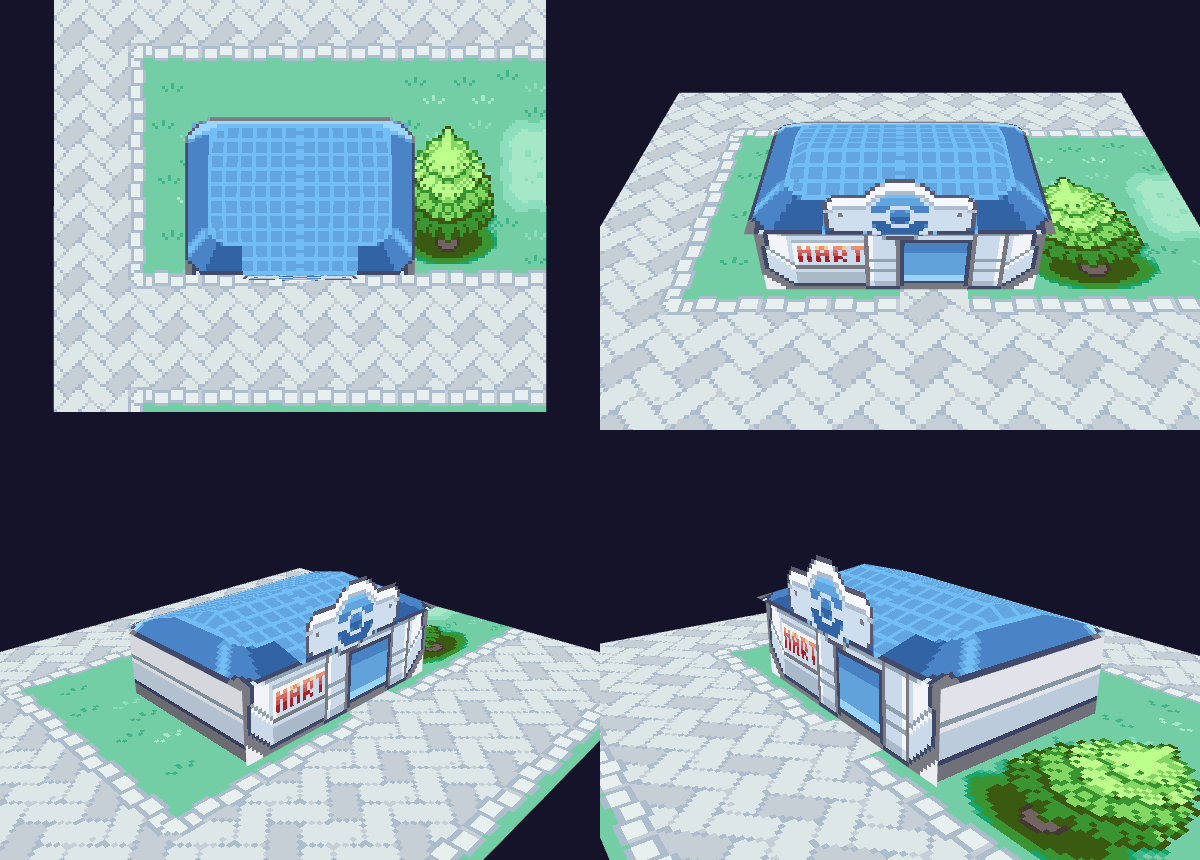
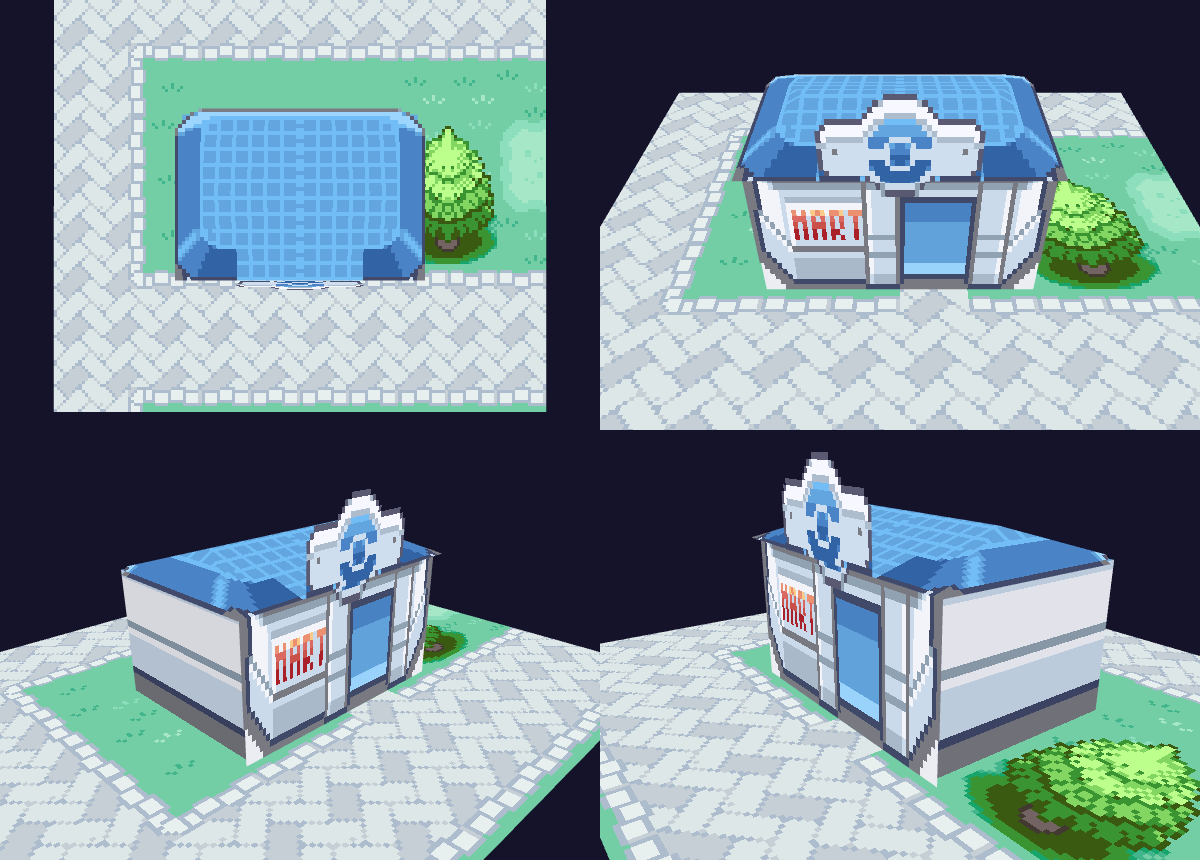
fix: Poke Mart mais alto que o jogador (fachada esticada 1.75x)
Regra: o jogador nunca pode ser muito maior que a porta nem parecer ter
75% do tamanho da construcao. Fachada e porta esticadas 1.75x (~1.85 de
parede) e placa 1.3x: menor que o Centro Pokemon, bem maior que o
jogador. Centro Pokemon inalterado.

Claude-Session: https://claude.ai/code/session_011SArCd6Gby5YnmMyJHVXV4

diff --git a/src/render/buildings/PokeMartModel.ts b/src/render/buildings/PokeMartModel.ts
@@ -46,6 +46,13 @@ const SIGN_X0 = 16;
 
 const SIGN_X1 = 48;
 
+// Esticamento vertical da fachada (e da porta) e da placa. Com a fachada da
+// arte de ~1 tile, 1.75 da ~1.85 de parede: menor que o Centro Pokemon
+// (2 + telhado), bem maior que o jogador.
+const HEIGHT_SCALE = 1.75;
+
+const SIGN_SCALE = 1.3;
+
 export interface PokeMartArt {
   // Arte do bloco 4x4 (64x64 px) ja sem o chao, RGBA, de cima para baixo.
   rgba: Uint8Array;
@@ -206,7 +213,12 @@ export function buildPokeMartModel(art: PokeMartArt): THREE.Group {
   // Posicao: a parede fica onde a fachada termina na arte do GBA (em
   // tiles do bloco), entao a base encosta na calcada da frente.
   const front = (facadeBottom + 1) / PX;
-  const wallHeight = (facadeBottom + 1 - facadeTop) / PX;
+  // A fachada da arte tem so ~1 tile: em 3D o jogador ficaria quase do
+  // tamanho do predio. Regra: o jogador nunca pode ser muito maior que a
+  // porta nem parecer ter 75% do tamanho da construcao. A fachada estica
+  // na vertical (HEIGHT_SCALE) - o Mart fica menor que o Centro Pokemon
+  // (parede 2 + telhado), mas bem maior que o jogador.
+  const wallHeight = ((facadeBottom + 1 - facadeTop) / PX) * HEIGHT_SCALE;
   const back = roofTop / PX;
   const depth = Math.max(0.5, facadeTop / PX - back);
 
@@ -353,7 +365,7 @@ export function buildPokeMartModel(art: PokeMartArt): THREE.Group {
   // No recorte da placa sobra telhado em volta: as cores do telhado
   // ligadas a borda do recorte (preenchimento a partir da borda) ficam
   // transparentes; o azul da Poke Bola, cercado pelo branco, fica.
-  const signHeight = (facadeTop - signFirstRow) / PX;
+  const signHeight = ((facadeTop - signFirstRow) / PX) * SIGN_SCALE;
   const signTexture = crop(art, SIGN_X0, signFirstRow, SIGN_X1 - SIGN_X0, facadeTop - signFirstRow);
 
   clearRoofAroundSign(signTexture, roofColors(art, roofTop, signFirstRow));
